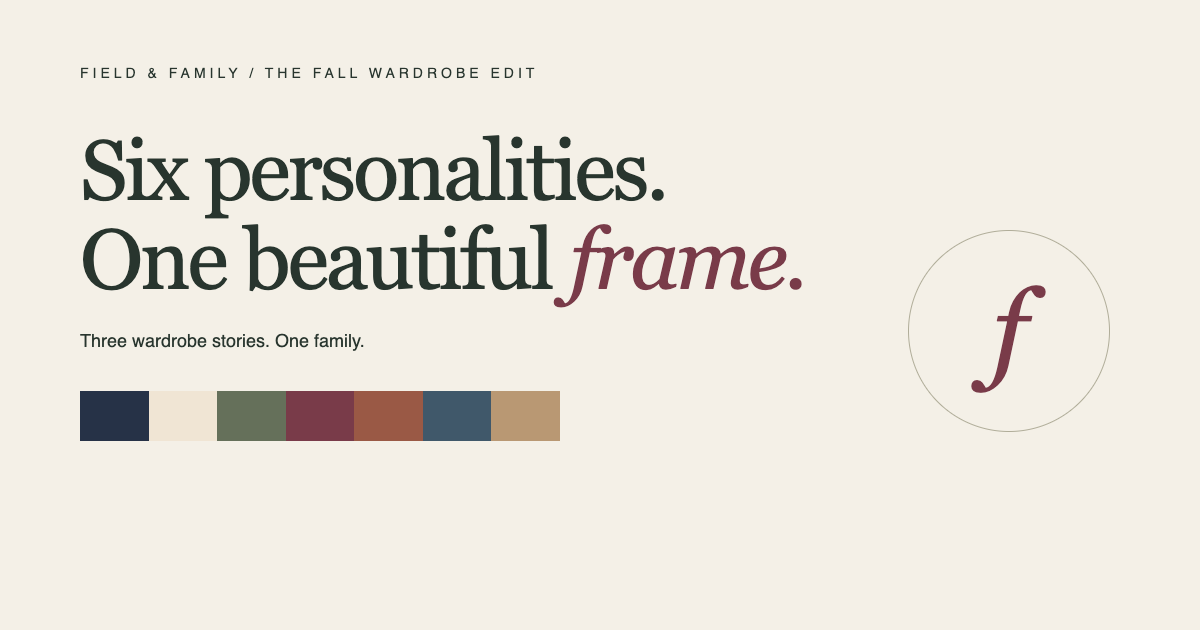
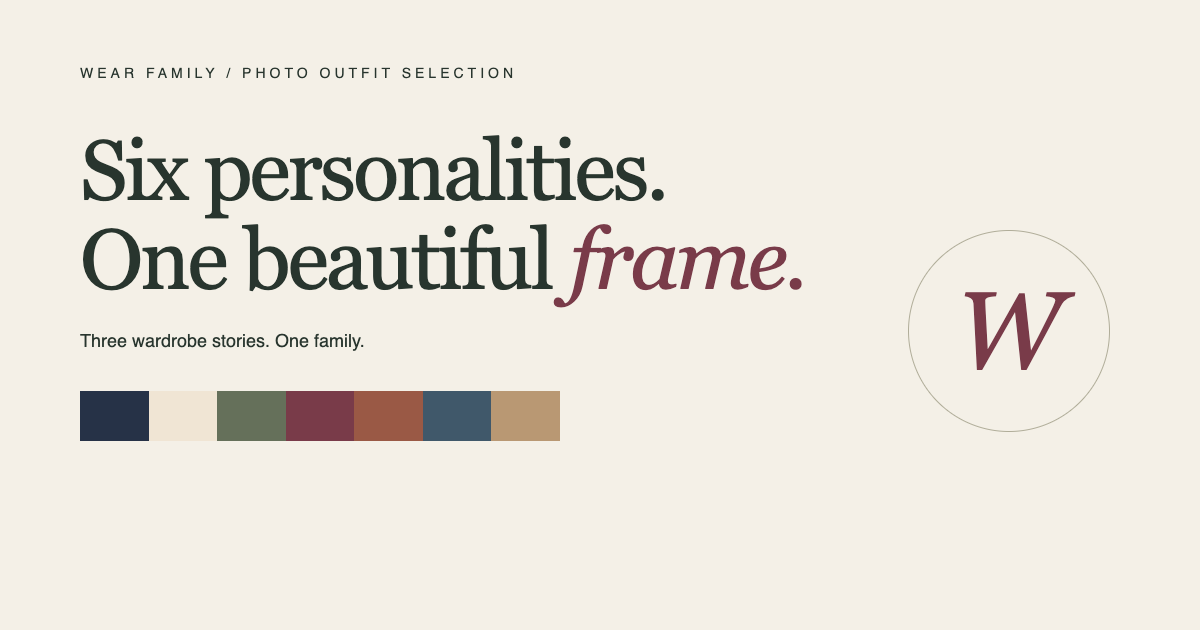
Rename lookbook to Wear Family Photo Outfit Selection

Changed region(s): [[0.8017, 0.4524, 0.8942, 0.6333], [0.0617, 0.0905, 0.4317, 0.1206]]

diff --git a/index.html b/index.html
@@ -8,7 +8,7 @@
     />
     <meta name="theme-color" content="#f4f0e7" />
     <meta name="color-scheme" content="light" />
-    <title>Field & Family — The Fall Wardrobe Edit</title>
+    <title>Wear Family Photo Outfit Selection</title>
     <meta
       name="description"
       content="Three considered fall photo wardrobes. Six individual looks. Explore coordinated palettes, illustrated outfit boards, and a practical shopping plan inspired by the Texas Hill Country."
@@ -16,7 +16,7 @@
     <meta property="og:type" content="website" />
     <meta
       property="og:title"
-      content="Field & Family — The Fall Wardrobe Edit"
+      content="Wear Family Photo Outfit Selection"
     />
     <meta
       property="og:description"
@@ -27,12 +27,12 @@
     <meta property="og:image:height" content="630" />
     <meta
       property="og:image:alt"
-      content="Field and Family fall wardrobe edit, with a seven-color heritage palette"
+      content="Wear Family Photo Outfit Selection, with a seven-color heritage palette"
     />
     <meta name="twitter:card" content="summary_large_image" />
     <meta
       name="twitter:title"
-      content="Field & Family — The Fall Wardrobe Edit"
+      content="Wear Family Photo Outfit Selection"
     />
     <meta
       name="twitter:description"

diff --git a/src/App.tsx b/src/App.tsx
@@ -95,7 +95,7 @@ export default function App() {
       </a>
       <header className="masthead">
         <a className="wordmark" href="#">
-          field <i>&</i> family<span>THE WARDROBE JOURNAL</span>
+          Wear Family<span>PHOTO OUTFIT SELECTION</span>
         </a>
         <nav aria-label="Main navigation">
           <a href="#lookbook">The looks</a>
@@ -707,7 +707,7 @@ export default function App() {
       </main>
       <footer>
         <a href="#" className="wordmark">
-          field <i>&</i> family
+          Wear Family<span>PHOTO OUTFIT SELECTION</span>
         </a>
         <span>A WARDROBE FOR THE MEMORY.</span>
         <a href="#">Back to top ↑</a>

diff --git a/src/style.css b/src/style.css
@@ -2097,7 +2097,7 @@ body:has(.visual-studio) .masthead {
   padding-block: 16px;
 }
 body:has(.visual-studio) .wordmark > span {
-  display: none;
+  display: block;
 }
 .visual-studio .private-banner {
   padding-block: 8px;

diff --git a/README.md b/README.md
@@ -1,4 +1,4 @@
-# Field & Family
+# Wear Family Photo Outfit Selection
 
 An editorial family wardrobe lookbook built with React, TypeScript and Vite. Three distinct concepts, six outfits per concept, approved AI family visualizations and individual studies, original SVG product illustrations, interactive palettes and comparison, and a browser-local shopping checklist for the recommended **Hill Country Heritage** look.
 
